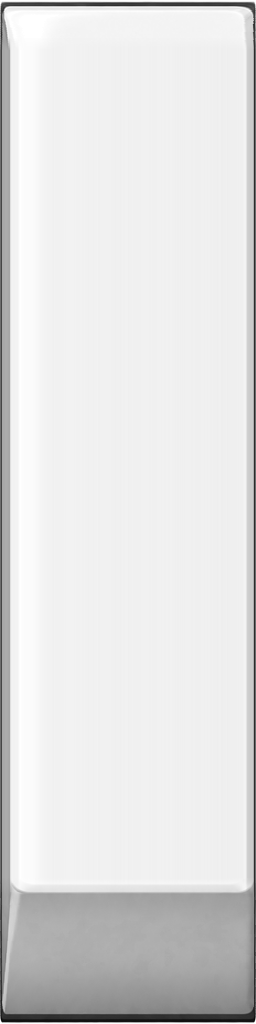
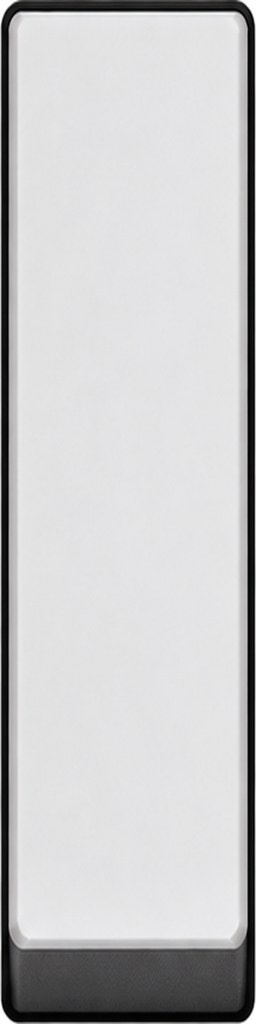
fix: replace arcade keyboard with reference-style sprites

Changed region(s): [[0.0, 0.0, 1.0, 1.0]]

diff --git a/src/render/KeyboardLayer.ts b/src/render/KeyboardLayer.ts
@@ -94,8 +94,8 @@ const KEY_STYLES: Readonly<Record<Exclude<KeyStyle, "perspective">, StyleSet>> =
       blackPressedLit: new URL("./keys-arcade/black-pressed-lit.webp", import.meta.url).href
     },
     // The pressed faces share the up faces' slices: their sunk bevel sits inside the bottom band.
-    white: { leftWidth: 20, topHeight: 50, rightWidth: 20, bottomHeight: 146 },
-    black: { leftWidth: 26, topHeight: 38, rightWidth: 22, bottomHeight: 91 },
+    white: { leftWidth: 16, topHeight: 32, rightWidth: 16, bottomHeight: 80 },
+    black: { leftWidth: 12, topHeight: 28, rightWidth: 12, bottomHeight: 88 },
     rail: new URL("./keys-arcade/case-rail.webp", import.meta.url).href
   }
 };

diff --git a/src/render/NotesLayer.ts b/src/render/NotesLayer.ts
@@ -227,8 +227,9 @@ export class NotesLayer {
     this.guides.removeChildren().forEach((child) => {
       child.destroy();
     });
-    // Electric-blue lane guides, with a stronger edge at each octave.
+    // White-key boundaries form the lanes; each octave has a stronger edge.
     for (const [pitch, key] of keys) {
+      if (key.black) continue;
       const line = new Sprite(Texture.WHITE);
       line.tint = OCTAVE_LINE;
       line.alpha = pitch % 12 === 0 ? 0.5 : 0.18;
